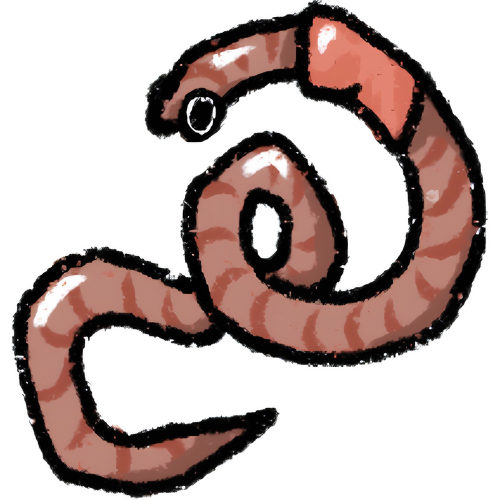
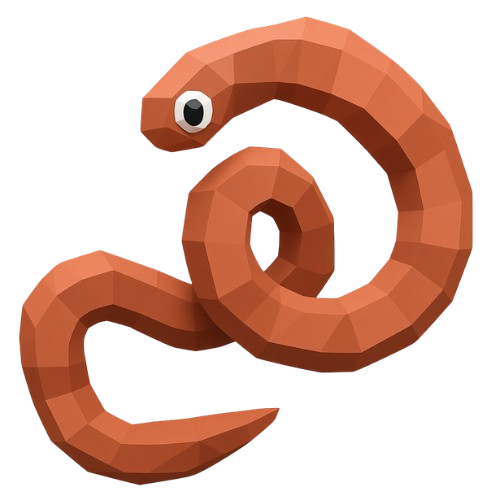
images of bugs updated!

diff --git a/src/app/App.tsx b/src/app/App.tsx
@@ -1,5 +1,4 @@
-import { useState } from "react";
-import { AnimatePresence, motion } from "motion/react";
+import { useEffect, useState } from "react";
 import { Navigation } from "./components/Navigation";
 import { AboutPage } from "./components/AboutPage";
 import { ProjectsPage } from "./components/ProjectsPage";
@@ -13,18 +12,36 @@ import { EasterEggs } from "./components/EasterEggs";
 
 type Page = "about" | "projects" | "resume" | "contact";
 
+const SECTION_ORDER: Page[] = ["about", "projects", "resume", "contact"];
+
 export default function App() {
   const [currentPage, setCurrentPage] = useState<Page>("about");
   const [isDrawing, setIsDrawing] = useState(false);
 
-  const renderPage = () => {
-    switch (currentPage) {
-      case "about":    return <AboutPage />;
-      case "projects": return <ProjectsPage />;
-      case "resume":   return <ResumePage />;
-      case "contact":  return <ContactPage />;
-    }
+  const handleNavigate = (page: Page) => {
+    document.getElementById(page)?.scrollIntoView({ behavior: "smooth" });
   };
+
+  // Scroll-spy: highlight whichever section's tab matches what's in view
+  useEffect(() => {
+    const observer = new IntersectionObserver(
+      (entries) => {
+        entries.forEach((entry) => {
+          if (entry.isIntersecting) {
+            setCurrentPage(entry.target.id as Page);
+          }
+        });
+      },
+      { rootMargin: "-45% 0px -45% 0px", threshold: 0 }
+    );
+
+    SECTION_ORDER.forEach((id) => {
+      const el = document.getElementById(id);
+      if (el) observer.observe(el);
+    });
+
+    return () => observer.disconnect();
+  }, []);
 
   return (
     <div
@@ -40,20 +57,21 @@ export default function App() {
       {/* Scroll-reactive vine on the left edge */}
       <ScrollVine />
 
-      <Navigation currentPage={currentPage} onNavigate={setCurrentPage} />
+      <Navigation currentPage={currentPage} onNavigate={handleNavigate} />
 
       <main style={{ pointerEvents: isDrawing ? "none" : "auto", position: "relative", zIndex: 3 }}>
-        <AnimatePresence mode="wait">
-          <motion.div
-            key={currentPage}
-            initial={{ opacity: 0, y: 16 }}
-            animate={{ opacity: 1, y: 0 }}
-            exit={{ opacity: 0, y: -16 }}
-            transition={{ duration: 0.35, ease: [0.22, 1, 0.36, 1] }}
-          >
-            {renderPage()}
-          </motion.div>
-        </AnimatePresence>
+        <section id="about" style={{ scrollMarginTop: "88px" }}>
+          <AboutPage />
+        </section>
+        <section id="projects" style={{ scrollMarginTop: "88px" }}>
+          <ProjectsPage />
+        </section>
+        <section id="resume" style={{ scrollMarginTop: "88px" }}>
+          <ResumePage />
+        </section>
+        <section id="contact" style={{ scrollMarginTop: "88px" }}>
+          <ContactPage />
+        </section>
         <Footer />
       </main>
 

diff --git a/src/app/components/AboutPage.tsx b/src/app/components/AboutPage.tsx
@@ -13,7 +13,7 @@ const hobbies = [
     icon: Palette,
     title: "Drawing & Illustration",
     description:
-      "Love to sketch, paint and design. I've been practicing this skill since 2012.",
+      "Love to sketch, paint and design. I've been practicing this skill since 2012. My favorite artist is currently Yoshitomo Nara.",
   },
   {
     icon: Sprout,
@@ -25,7 +25,7 @@ const hobbies = [
     icon: Mountain,
     title: "Hiking",
     description:
-      "Getting out into green spaces clears my head. Mountains, parks, and trails.",
+      "Getting out into green spaces clears my head. Mountains, parks, and trails are my favorite places to explore. I love to take photos of nature with my fujifilm digital camera.",
   },
   {
     icon: BookOpen,
